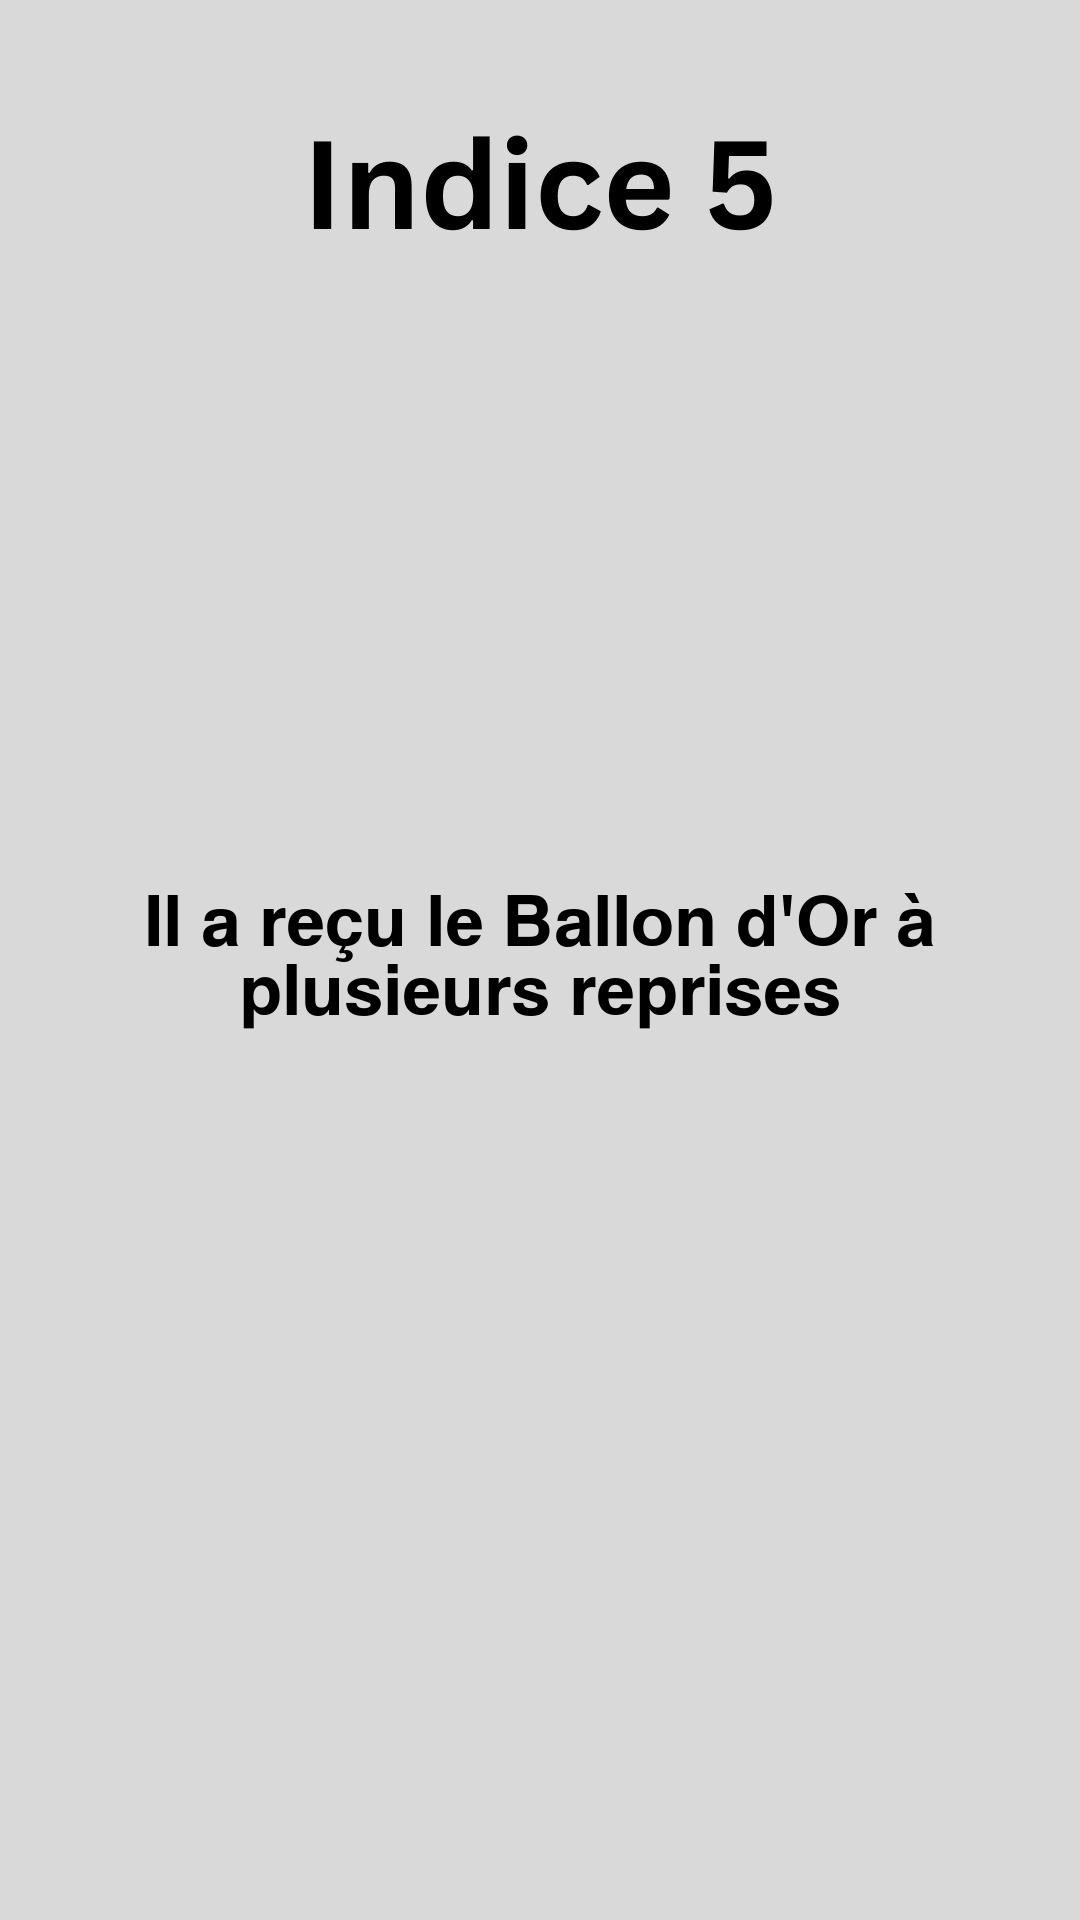
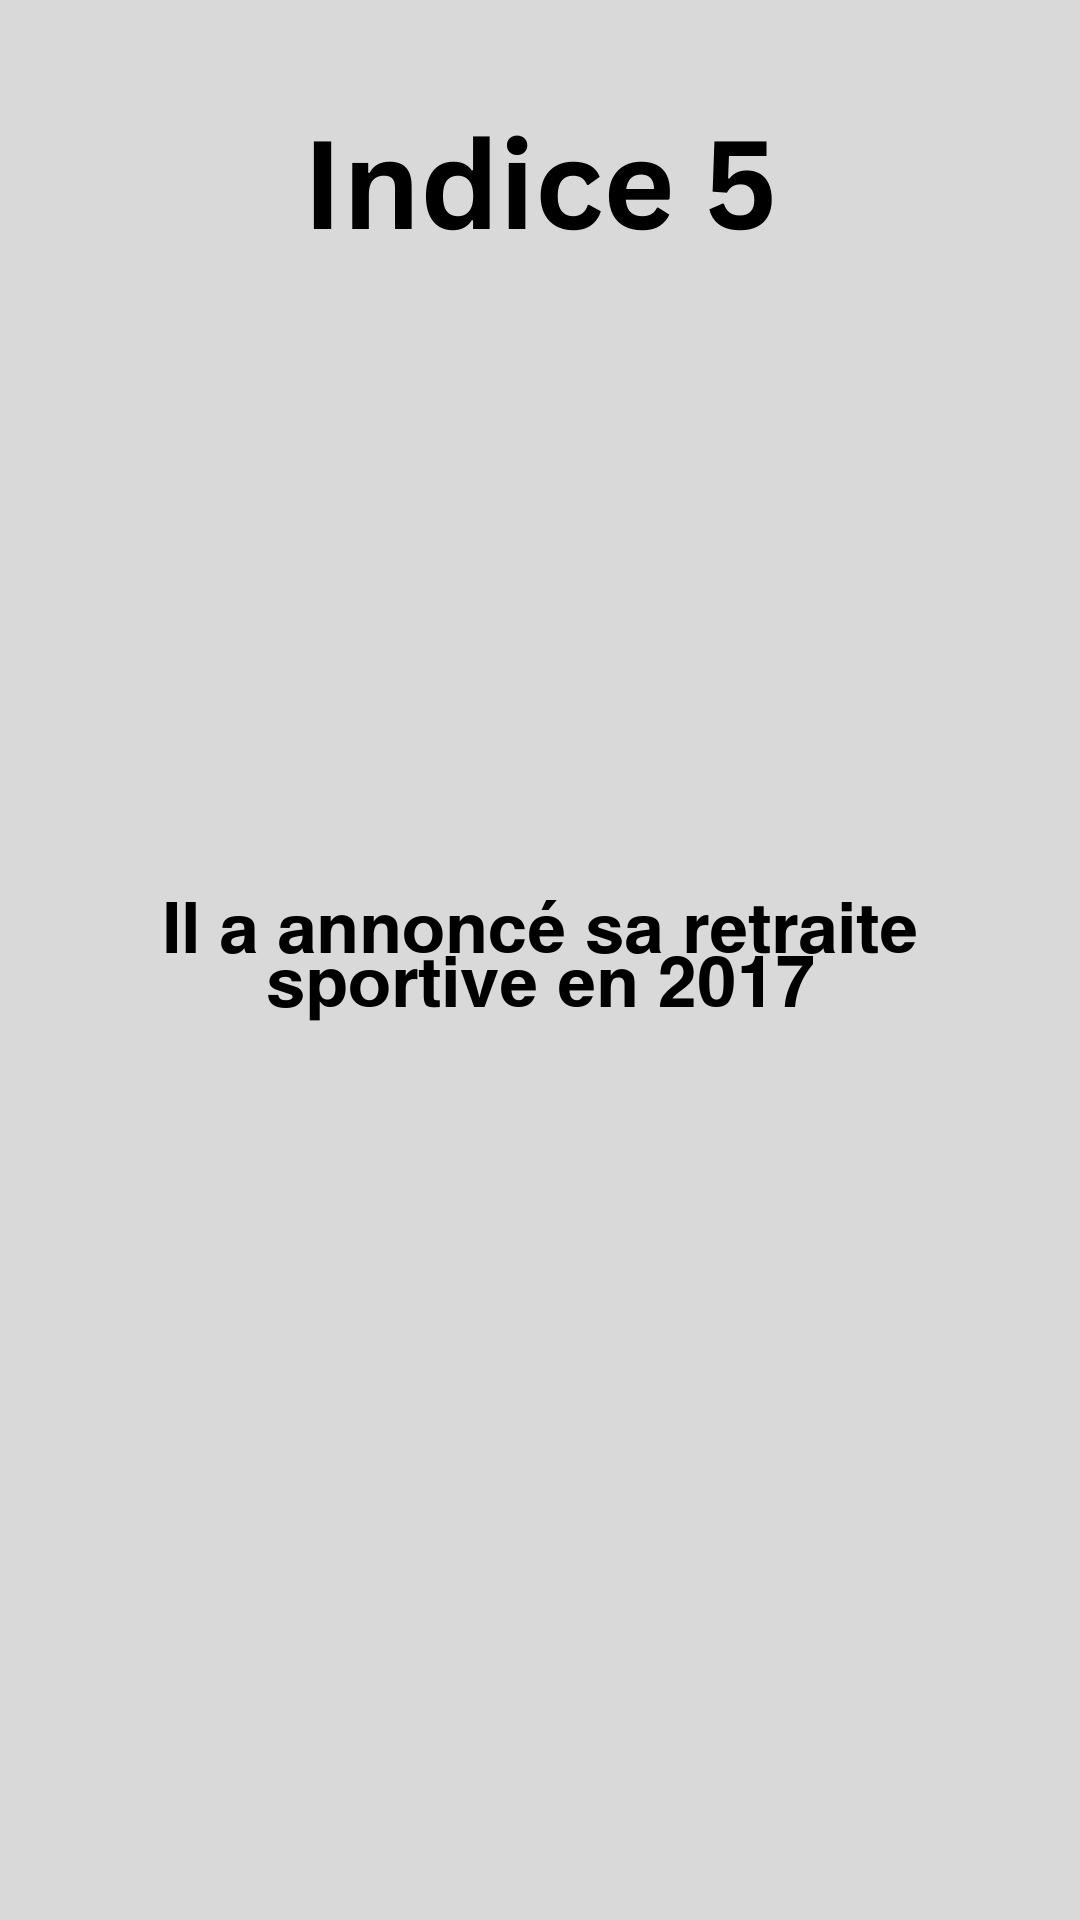
m

Changed region(s): [[0.1222, 0.4688, 0.8861, 0.5312]]

diff --git a/api.py b/api.py
@@ -101,7 +101,7 @@ chat_response = client.chat.complete(
     messages = [
         {
           "role": "user",
-          "content": """Créer un jeu 'Qui suis-je?' sur un sportif connu avec 5 indices numérotés en français,en anglais et en alemand.la réponse en JSON avec ce format
+          "content": """Créer un jeu 'Qui suis-je?' sur un sportif avec 5 indices numérotés en français,en anglais et en alemand. La réponse en JSON avec ce format
           {
             "reponse": "",
             "clues":[ 
